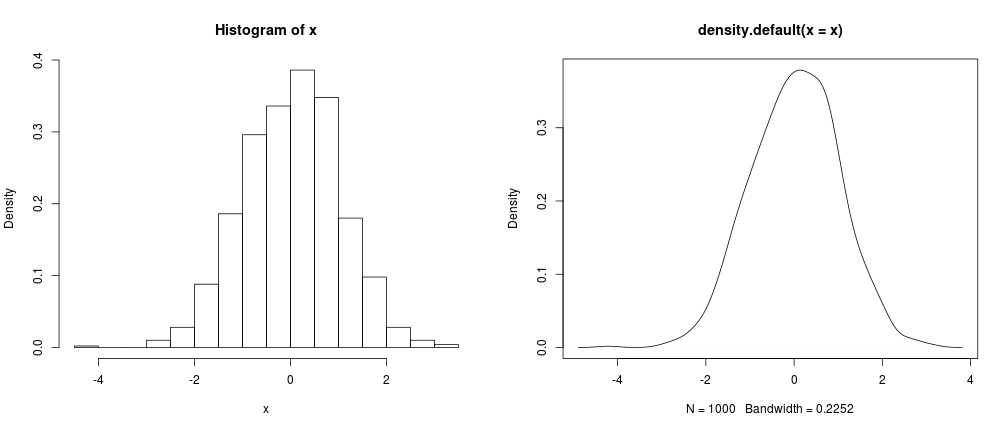
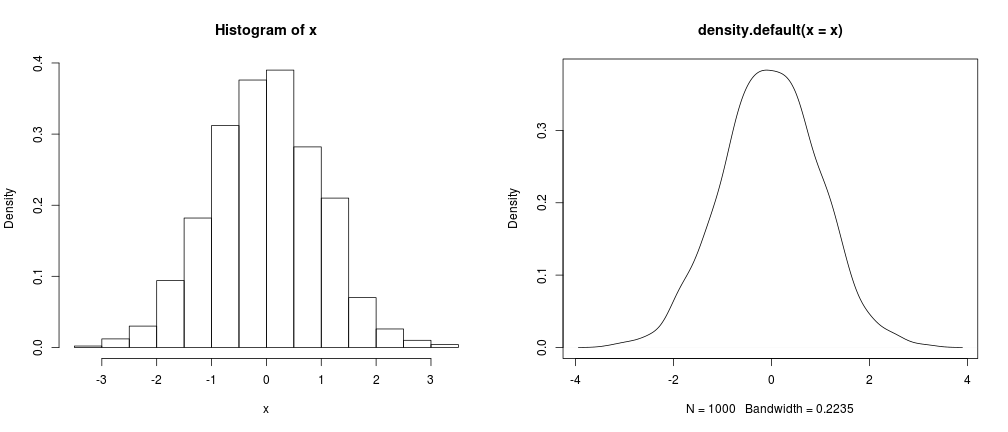
Add room to syllabus

diff --git a/Syllabus.tex b/Syllabus.tex
@@ -46,7 +46,7 @@
 
 \chead{\textbf{Advanced Statistics}}
 \lhead{Instructor: Bernhard Angele}
-\rhead{Thursdays 1 PM -- 4 PM\\ Location TBD}
+\rhead{Thursdays 1 PM -- 4 PM\\ Location: P424}
 
 \lfoot{Last revised: \today}
 \rfoot{\thepage}

diff --git a/Class1/Class 1.md b/Class1/Class 1.md
@@ -282,7 +282,7 @@ head(x)
 ```
 
 ```
-[1] -1.8148 -1.5262 -0.7176  0.1405  0.7109 -0.4269
+[1] -1.0719 -0.5881 -0.5784  0.3313  0.7588  0.3234
 ```
 
 ```r
@@ -388,7 +388,7 @@ mean(sample_means)
 ```
 
 ```
-[1] 2.929
+[1] 2.995
 ```
 
 ```r
@@ -396,7 +396,7 @@ sd(sample_means)
 ```
 
 ```
-[1] 0.3798
+[1] 0.3515
 ```
 
 Sampling from a gamma distribution (2)
@@ -446,7 +446,7 @@ summary(sample_means)
 
 ```
    Min. 1st Qu.  Median    Mean 3rd Qu.    Max. 
-  0.325   0.471   0.503   0.510   0.534   0.804 
+  0.349   0.477   0.501   0.502   0.518   0.978 
 ```
 
 Sampling from a uniform distribution (2)
@@ -495,16 +495,16 @@ summary(sample_means)
 
 ```
    Min. 1st Qu.  Median    Mean 3rd Qu.    Max. 
-  0.446   0.892   1.010   1.030   1.110   3.010 
+  0.169   0.858   0.999   0.972   1.070   1.760 
 ```
 
-Sampling from a uniform distribution (2)
+Sampling from an exponential distribution (2)
 ========================================================
 
 
 ```r
 par(mfrow=c(1,2)) # (two plots side-by-side)
-hist(sample_means,freq=F, breaks = 20)
+hist(sample_means,freq=F, breaks = 40)
 plot(density(sample_means))
 ```
 
